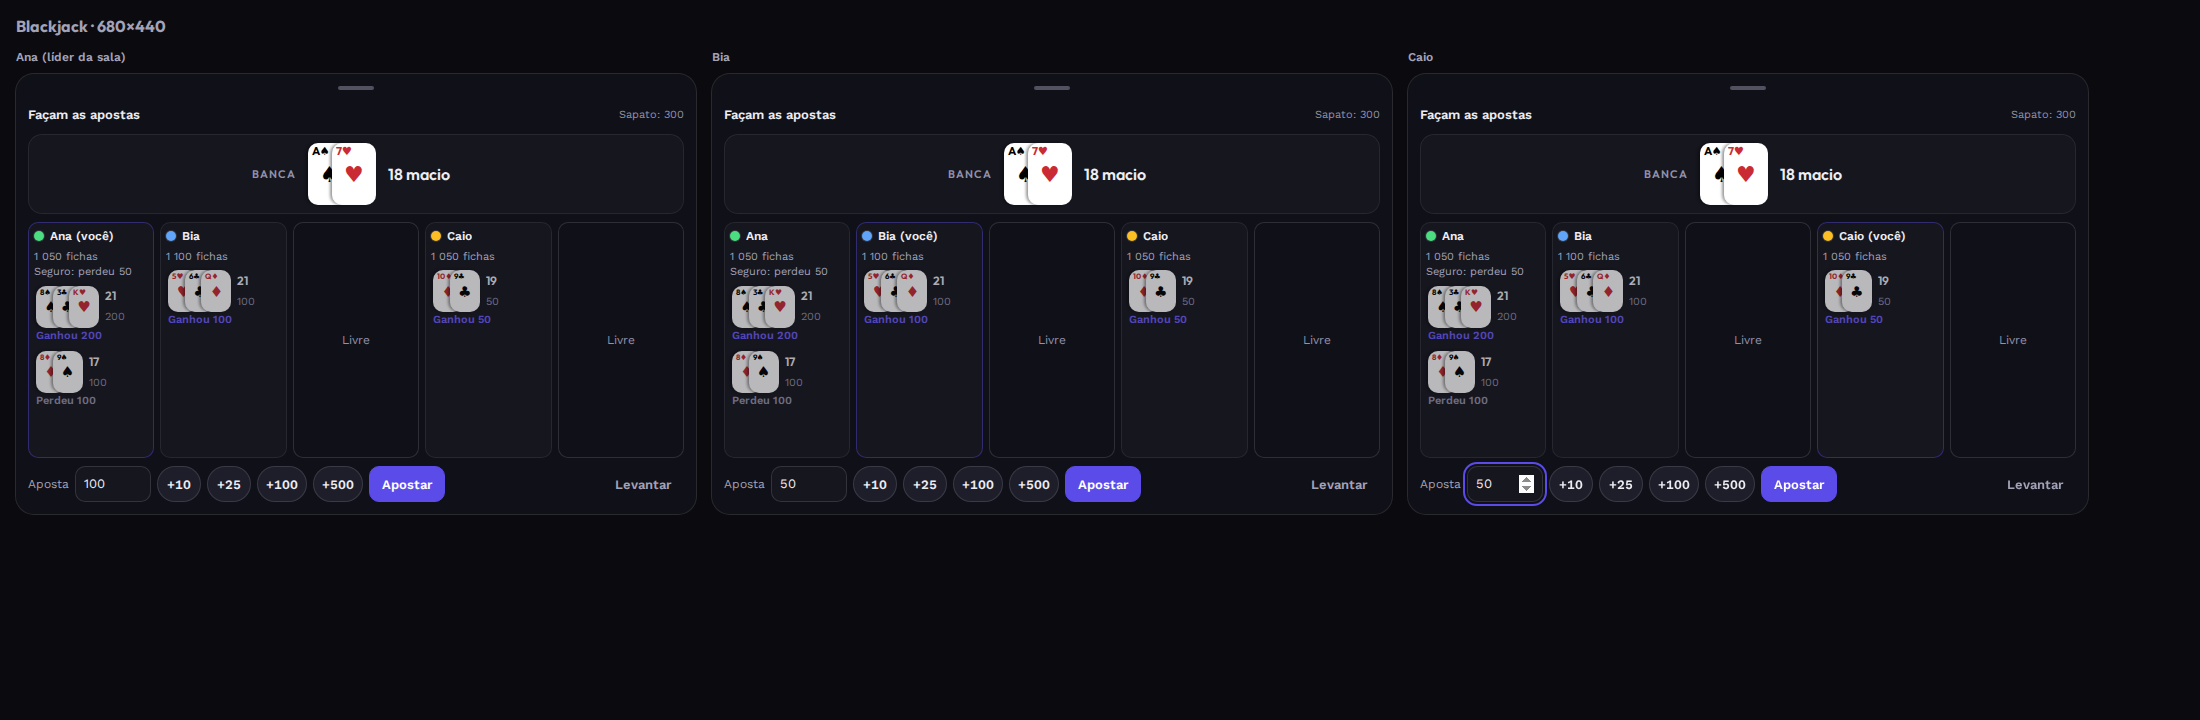
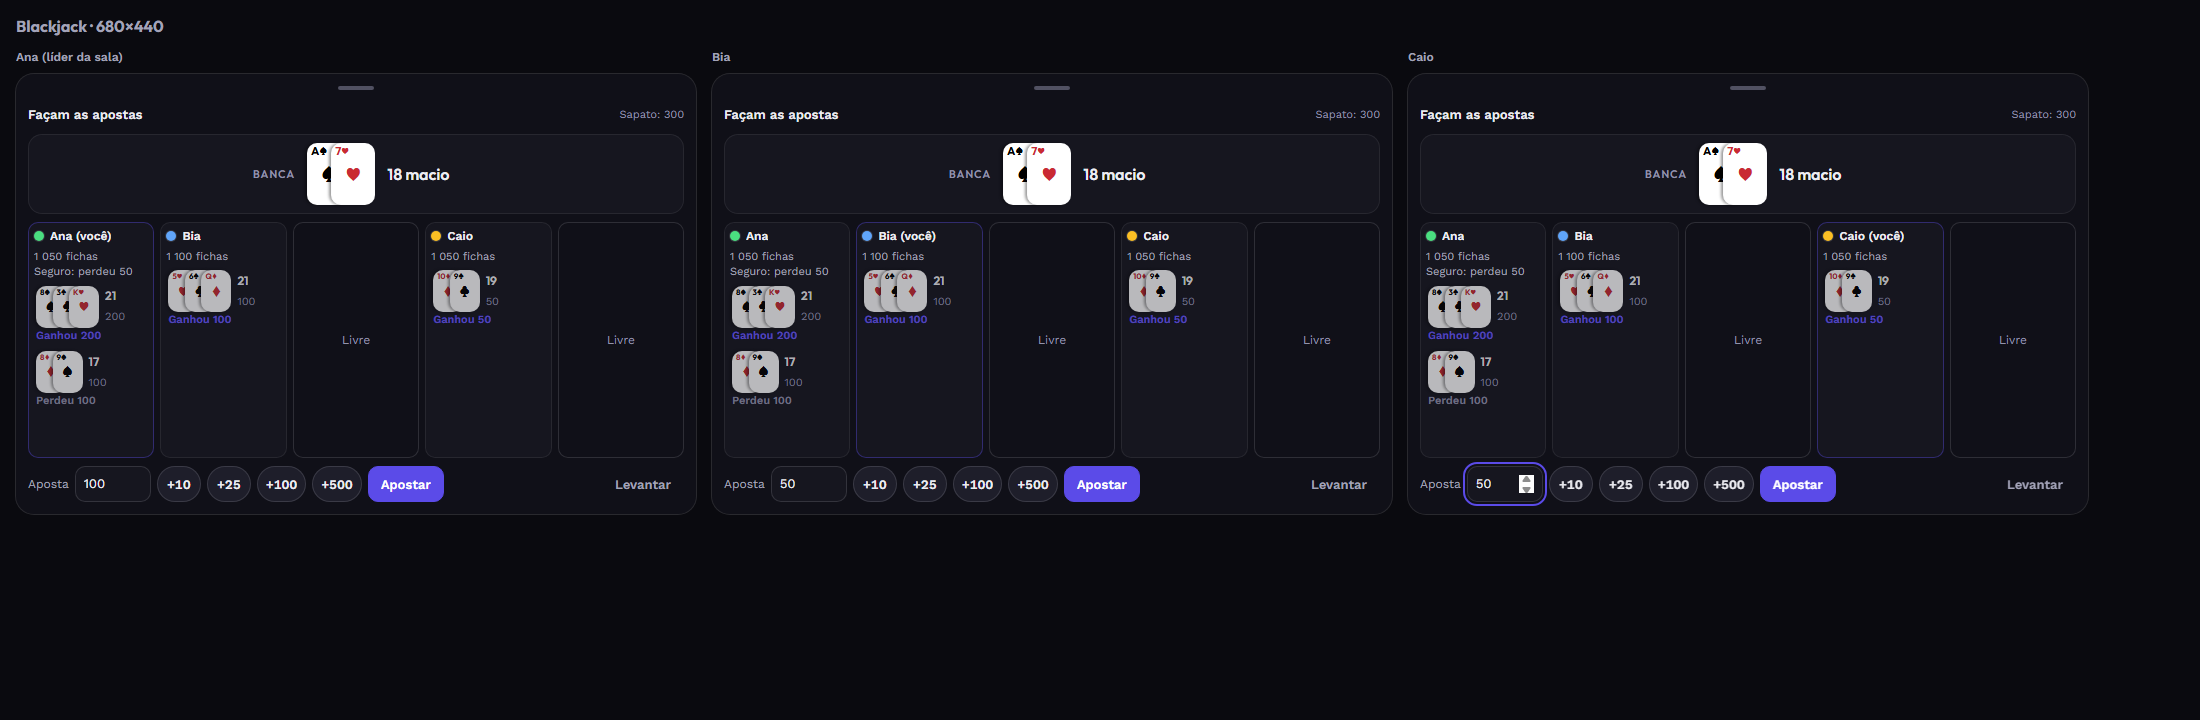
fix(cartas): restaura chaves perdidas do CSS de poquer e blackjack
A juncao das janelas de Festa (Jam/Sons/Link), Poquer e Blackjack em
mesa-janelas.css tinha varias chaves de fechamento e algumas linhas de
propriedade apagadas por engano (25 "}" faltando ao todo). O CSS
seguinte virava aninhamento (CSS Nesting) sem querer: os seletores de
poquer e blackjack ficavam efetivamente dentro de ".mj-jam-lista",
".mj-sons-grade" etc. e nunca casavam com o DOM real, entao quase
nenhum estilo das janelas de cartas era aplicado (mesa oval do poquer
e a grade de 5 lugares do blackjack caiam no bloco padrao do
navegador). Isso, e nao o tamanho das janelas, era a causa do
conteudo estourar a caixa.

Reconstrui o trecho (Festa + Poquer + Blackjack) a partir dos commits
originais de cada time, fechando as chaves e devolvendo as poucas
linhas de propriedade que tinham sumido junto (bordas, fundo,
display: grid dos lugares do blackjack etc.), mantendo os ajustes que
vieram depois (foco visivel do status do blackjack, o layout estreito
da mao em @container max-width:560px, o esmaecido do showdown do
poquer). Nao mudei nenhum seletor, valor ou breakpoint -- so o que
faltava fechar/voltar.

Com o CSS valendo de novo, os container queries que os proprios times
ja tinham escrito (max-width/max-height por janela) bastam para caber
nos tamanhos padrao e minimo; nao foi preciso mexer em
mesa-modules/poquer.js nem blackjack.js.

Verificacao:
- node tools/bancada-cartas/poquer-rodar.js -> 47 conferencias, 0 falhas
[…]

diff --git a/src/renderer/mesa-janelas.css b/src/renderer/mesa-janelas.css
@@ -1190,10 +1190,14 @@
 
 @container mj (max-width: 480px) {
   .mj-bn-acoes .mj-btn span { display: none; }
+}
+
 /* ======================================================================
    Festa (time Festa, 2026-09-25): Spotify Jam, Sons e Link.
    ====================================================================== */
+
 /* ---------- Spotify Jam ---------- */
+
 .mj-jam-vazio, .mj-jam-cheio { flex: 1; min-height: 0; display: flex; flex-direction: column; gap: var(--s-2); }
 .mj-jam-vazio { justify-content: center; }
 .mj-jam-titulo { margin: 0; font: 600 var(--fs-lead) 'Outfit', system-ui, sans-serif; }
@@ -1207,11 +1211,16 @@
   flex: 1;
   list-style: none; margin: 0; padding: 0;
   display: flex; flex-wrap: wrap; align-content: flex-start; gap: var(--s-1) var(--s-3);
+}
 .mj-jam-lista li { display: inline-flex; align-items: center; gap: var(--s-15); font-size: var(--fs-small); }
 .mj-jam-rodape .mj-btn { min-height: 28px; font-size: var(--fs-small); }
+
 @container mj (max-height: 230px) {
   .mj-jam .mj-jam-meta, .mj-jam .mj-dica { display: none; }
+}
+
 /* ---------- Sons ---------- */
+
 .mj-sons-grade {
   flex: 1;
   min-height: 0;
@@ -1222,6 +1231,7 @@
   grid-auto-rows: minmax(36px, 56px);
   align-content: start;
   gap: var(--s-15);
+}
 .mj .mj-sons-btn { min-height: 0; height: 100%; padding: 0 var(--s-2); justify-content: center; }
 .mj .mj-sons-btn > span { overflow: hidden; text-overflow: ellipsis; }
 .mj .mj-sons-btn.is-toca { animation: mj-sons-toca 360ms var(--ease-out); }
@@ -1229,6 +1239,7 @@
   0% { transform: scale(1); }
   35% { transform: scale(1.07); }
   100% { transform: scale(1); }
+}
 /* A espera de 3 s de quem tocou: uma linha que encolhe ate sumir. */
 .mj-sons-espera { height: 3px; flex: none; border-radius: var(--r-full); background: var(--s3); opacity: 0; transition: opacity var(--dur-fast); overflow: hidden; }
 .mj-sons-espera.is-on { opacity: 1; }
@@ -1237,26 +1248,33 @@
 @keyframes mj-sons-espera {
   from { transform: scaleX(var(--mj-falta, 1)); }
   to { transform: scaleX(0); }
+}
 .mj-sons-rodape { flex: none; }
 .mj-sons-tocou {
   margin: 0; min-width: 0;
   display: inline-flex; align-items: center; gap: var(--s-15);
   color: var(--tx2); font-size: var(--fs-small);
   white-space: nowrap; overflow: hidden;
+}
 .mj-sons-tocou > em { font-style: normal; overflow: hidden; text-overflow: ellipsis; }
 .mj-sons-tocou > span:not(.mj-dot) { flex: none; }
 .mj .mj-sons-rodape .mj-ic { width: 28px; min-height: 28px; }
 .mj .mj-sons-vol { width: 88px; flex: none; accent-color: var(--act); }
 .mj-sons-vol:focus-visible { outline: 2px solid var(--act); outline-offset: 2px; }
 .mj-sons.is-mudo .mj-sons-vol { opacity: 0.5; }
+
 @container mj (max-width: 300px) {
   .mj-sons-grade { grid-template-columns: repeat(3, minmax(0, 1fr)); gap: var(--s-1); }
   .mj .mj-sons-btn { padding: 0 var(--s-1); font-size: var(--fs-small); }
   .mj .mj-sons-vol { width: 64px; }
+}
 @container mj (max-height: 200px) {
   .mj-sons-grade { grid-auto-rows: 28px; gap: var(--s-1); }
   .mj .mj-sons-btn { font-size: var(--fs-small); }
+}
+
 /* ---------- Link ---------- */
+
 .mj-link-vazio, .mj-link-cheio { flex: 1; min-height: 0; display: flex; flex-direction: column; gap: var(--s-2); }
 .mj-link-vazio { justify-content: center; }
 .mj-link-form { display: flex; flex-direction: column; gap: var(--s-15); min-width: 0; }
@@ -1266,6 +1284,7 @@
   margin: 0;
   font: 600 var(--fs-lead) 'Outfit', system-ui, sans-serif;
   overflow: hidden; text-overflow: ellipsis; white-space: nowrap;
+}
 .mj-link-titulo.is-dominio { font-variant-numeric: tabular-nums; }
 .mj-link-meta { display: flex; gap: var(--s-1); min-width: 0; color: var(--tx2); font-size: var(--fs-small); }
 .mj-link-meta > span { overflow: hidden; text-overflow: ellipsis; white-space: nowrap; }
@@ -1274,20 +1293,27 @@
   margin: 0;
   color: var(--tx3); font-size: var(--fs-small);
   overflow: hidden; text-overflow: ellipsis; white-space: nowrap;
+}
 .mj-link-acoes .mj-fantasma { min-height: 28px; font-size: var(--fs-small); }
 .mj-link-confirma {
   display: flex; flex-direction: column; gap: var(--s-15);
   padding: var(--s-2);
+  border-radius: var(--r-sm);
+  background: var(--s2);
   box-shadow: inset 0 0 0 1px var(--line2);
+}
 .mj-link-pergunta { margin: 0; font-size: var(--fs-body); overflow-wrap: anywhere; }
 .mj-link-pergunta strong { font-weight: 700; }
+
 /* Alturas do container sao da caixa de conteudo (sem o respiro da alca). */
 @container mj (max-height: 130px) {
   .mj-link .mj-sec { display: none; }
   .mj-link-cheio.is-confirmando .mj-link-cabeca { display: none; }
+}
 @container mj (max-width: 330px) {
   .mj-link-acoes .mj-fantasma > span { display: none; }
   .mj-link-acoes .mj-fantasma { width: 28px; padding: 0; }
+}
 /* ---------- Pôquer (mesa-janelas/poquer.js) ----------
    Mesa oval com 8 lugares (a de quem ve fica embaixo, no meio), as cartas
    da mesa e o pote no meio, e embaixo as suas cartas e a barra de acoes.
@@ -1301,6 +1327,8 @@
 }
 .mj-pq-topo { min-height: 30px; }
 .mj-pq-titulo {
+  margin: 0; min-width: 0;
+  overflow: hidden; text-overflow: ellipsis; white-space: nowrap;
   font: 600 var(--fs-small) 'Outfit', system-ui, sans-serif;
   color: var(--tx2);
   font-variant-numeric: tabular-nums;
@@ -1325,6 +1353,7 @@
   text-align: center;
 }
 .mj-pq-pote {
+  margin: 0;
   font: 600 var(--fs-small) 'Outfit', system-ui, sans-serif;
   color: var(--tx);
   font-variant-numeric: tabular-nums;
@@ -1343,6 +1372,7 @@
 .mj-poquer.is-showdown .mj-pq-cartas .mj-carta:not(.is-destaque):not(.is-verso) { opacity: 0.45; }
 .mj-pq-resultado { display: flex; flex-direction: column; gap: 2px; }
 .mj-pq-resultado p {
+  margin: 0;
   font-size: var(--fs-small);
   line-height: 1.25;
   color: var(--tx);
@@ -1358,6 +1388,7 @@
   padding: var(--s-05) var(--s-15);
   border-radius: var(--r-md);
   background: var(--s3);
+  box-shadow: inset 0 0 0 1px var(--line2);
   font-size: var(--fs-small);
   line-height: 1.2;
 }
@@ -1381,6 +1412,7 @@
   border-radius: var(--r-full);
   background: var(--on-act);
   color: var(--video-bg);
+  box-shadow: inset 0 0 0 1px var(--line2);
   font: 700 10px/1 'Outfit', system-ui, sans-serif;
 }
 .mj-pq-tag {
@@ -1425,6 +1457,7 @@
   padding: 1px var(--s-15) 1px var(--s-05);
   border-radius: var(--r-full);
   background: var(--s3);
+  box-shadow: inset 0 0 0 1px var(--line2);
   font: 600 var(--fs-micro) 'Outfit', system-ui, sans-serif;
   font-variant-numeric: tabular-nums;
   white-space: nowrap;
@@ -1475,42 +1508,73 @@
 @container mj (max-height: 400px) {
   .mj-pq-jogo { display: none; }
   .mj-pq-lugar .mj-pq-tag { display: none; }
+}
 /* ---------- Blackjack (mesa-janelas/blackjack.js) ----------
    A banca em cima, os 5 lugares embaixo, a barra da pessoa no pe. Cartas
    de cada mao se sobrepoem pela metade (maos longas cabem no lugar). A cor
    da pessoa so na bolinha; a vez e o --act (contorno). */
+
 .mj.mj-bj { padding-top: 30px; gap: var(--s-2); }
+
 .mj-bj-topo { display: flex; align-items: center; gap: var(--s-2); min-height: 22px; }
 .mj-bj-status {
+  margin: 0; min-width: 0;
+  overflow: hidden; text-overflow: ellipsis; white-space: nowrap;
   font-weight: 600;
+}
 .mj-bj.is-minha-vez .mj-bj-status { color: var(--on-text); }
 .mj-bj-status:focus { outline: none; }
 .mj-bj-status:focus-visible { outline: 2px solid var(--act); outline-offset: 2px; border-radius: var(--r-xs); }
 .mj-bj-prazo {
+  flex: none;
   min-width: 40px;
   padding: 1px var(--s-2);
+  border-radius: var(--r-full);
+  background: var(--s3);
+  color: var(--tx2);
+  font: 600 var(--fs-small) 'Outfit', system-ui, sans-serif;
+  font-variant-numeric: tabular-nums;
+  text-align: center;
+}
 .mj-bj-prazo.is-fim { background: var(--warn-dim); color: var(--warn); }
 .mj-bj-sapato { flex: none; color: var(--tx3); font-size: var(--fs-micro); }
+
 /* Banca */
 .mj-bj-banca {
   display: flex; align-items: center; justify-content: center; gap: var(--s-3);
+  padding: var(--s-2);
+  border-radius: var(--r-md);
+  background: var(--s2);
+  box-shadow: inset 0 0 0 1px var(--line);
   min-height: 80px;
+}
 .mj-bj-banca-mao { display: flex; min-height: 62px; align-items: center; }
 .mj-bj-banca .mj-bj-total { min-width: 72px; font: 600 var(--fs-lead) 'Outfit', system-ui, sans-serif; }
 .mj-bj-banca.is-estourou .mj-bj-total { color: var(--tx3); }
+
 /* Cartas de uma mao: sobrepostas, sem quebrar linha. */
 .mj-bj .mj-mao { flex-wrap: nowrap; gap: 0; }
 .mj-bj .mj-mao > .mj-carta + .mj-carta { margin-left: calc(var(--mj-carta-w) * -0.45); }
 .mj-bj .mj-carta { box-shadow: inset 0 0 0 1px var(--line2), -2px 0 3px var(--scrim-1); }
 .mj-bj .mj-carta.is-verso { box-shadow: inset 0 0 0 2px var(--s2), inset 0 0 0 3px var(--line2), -2px 0 3px var(--scrim-1); }
+
 /* Lugares */
 .mj-bj-lugares {
   flex: 1; min-height: 0;
+  display: grid;
   grid-template-columns: repeat(5, minmax(0, 1fr));
+  gap: var(--s-15);
+}
 .mj-bj-lugar {
   min-width: 0; min-height: 0;
   display: flex; flex-direction: column; gap: var(--s-1);
   padding: var(--s-15);
+  border-radius: var(--r-sm);
+  background: var(--s2);
+  box-shadow: inset 0 0 0 1px var(--line);
+  overflow-y: auto;
+  overscroll-behavior: contain;
+}
 .mj-bj-lugar.is-vazio { align-items: center; justify-content: center; background: transparent; box-shadow: inset 0 0 0 1px var(--line2); }
 .mj-bj-lugar.is-meu { box-shadow: inset 0 0 0 1px var(--on-line); }
 .mj-bj-lugar.is-vez { box-shadow: inset 0 0 0 2px var(--act); }
@@ -1523,10 +1587,13 @@
 .mj-bj-seguro { color: var(--tx2); }
 .mj-bj-maos { display: flex; flex-direction: column; gap: var(--s-1); }
 .mj-bj-mao {
+  display: grid;
   grid-template-columns: auto 1fr;
+  align-items: center;
   column-gap: var(--s-15);
   padding: var(--s-05);
   border-radius: var(--r-xs);
+}
 .mj-bj-mao > .mj-mao { grid-row: span 2; }
 .mj-bj-mao.is-vez { box-shadow: 0 0 0 2px var(--act); }
 .mj-bj-mao .mj-bj-total { font: 600 var(--fs-small) 'Outfit', system-ui, sans-serif; white-space: nowrap; }
@@ -1535,12 +1602,15 @@
   grid-column: 1 / -1;
   font-size: var(--fs-micro);
   font-weight: 600;
+  white-space: nowrap;
   overflow: hidden; text-overflow: ellipsis;
+}
 .mj-bj-mao.is-ganhou .mj-bj-res { color: var(--on-text); }
 .mj-bj-mao.is-perdeu .mj-bj-res { color: var(--tx3); }
 .mj-bj-mao.is-empate .mj-bj-res { color: var(--tx2); }
 /* Nas apostas, as maos que ficaram sao da rodada anterior: apagadas. */
 .mj-bj-lugar.is-anterior .mj-bj-mao { opacity: 0.7; }
+
 /* Barra da pessoa */
 .mj-bj-barra { display: flex; flex-wrap: wrap; align-items: center; gap: var(--s-15); min-height: 36px; }
 .mj-bj-grupo { display: flex; flex-wrap: wrap; align-items: center; gap: var(--s-15); }
@@ -1549,8 +1619,12 @@
 .mj .mj-bj-ficha {
   min-width: 44px;
   padding: 0 var(--s-2);
+  border-radius: var(--r-full);
+  font-variant-numeric: tabular-nums;
+}
 .mj-bj-dica { flex: 1; min-width: 0; }
 .mj-bj-barra .mj-aviso { flex-basis: 100%; }
+
 @container mj (max-width: 560px) {
   .mj-bj-sapato, .mj-bj-rot, .mj-bj-mao-aposta { display: none; }
   .mj-bj-lugares { gap: var(--s-1); }
@@ -1560,10 +1634,12 @@
   /* Lugar estreito: o total vai para baixo das cartas. */
   .mj-bj-mao { grid-template-columns: minmax(0, 1fr); }
   .mj-bj-mao > .mj-mao { grid-row: auto; }
+}
 @container mj (max-height: 360px) {
   .mj-bj-banca { min-height: 0; padding: var(--s-1); }
   .mj-bj-banca-mao { min-height: 0; }
   .mj-bj-banca .mj-carta-m { --mj-carta-w: 32px; }
+}
 @container mj (min-width: 900px) and (min-height: 560px) {
   .mj-bj .mj-bj-mao .mj-carta-p { --mj-carta-w: 40px; }
   .mj-bj-banca .mj-carta-m { --mj-carta-w: 60px; }
